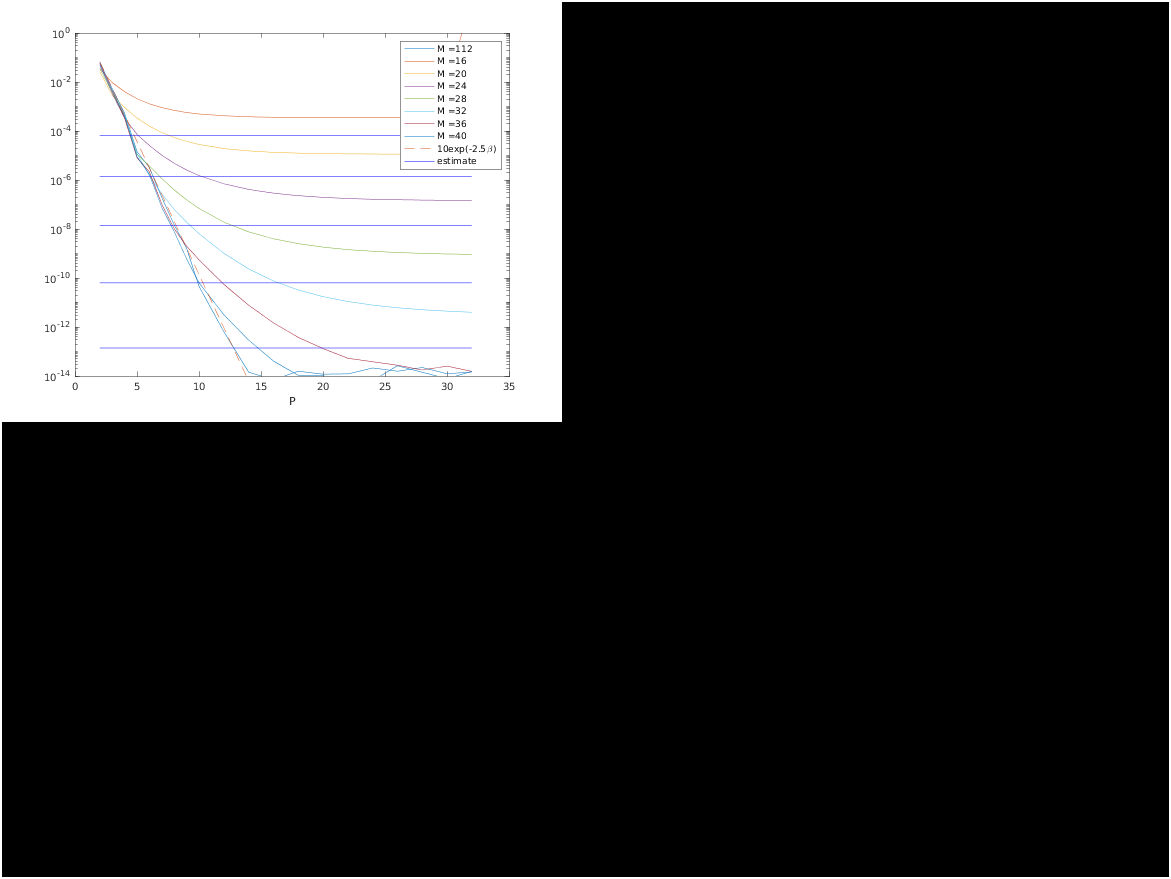
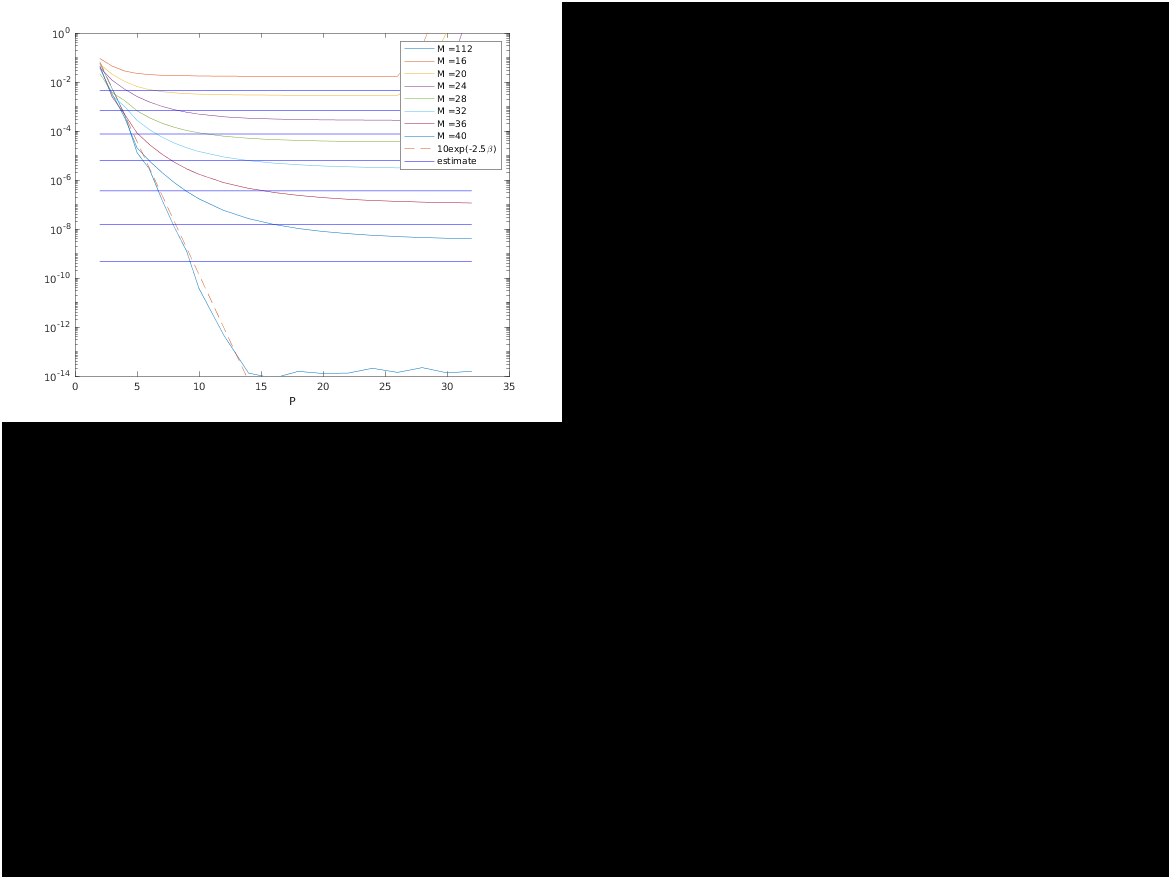
imgs

diff --git a/SE_Stokes_run/SE3P_Stokes/P_error.m b/SE_Stokes_run/SE3P_Stokes/P_error.m
@@ -17,7 +17,7 @@ opt.box = box;
 
 M0 = 128; % Set M0=M/L, the restu * 1+ is automatic
 opt.M = M0*opt.box;
-opt.xi = 10;
+opt.xi = 15;
 opt.betaP = 2.5;
 opt.c = sqrt(0.91);
 %opt.window = 'kaiser_exact';
